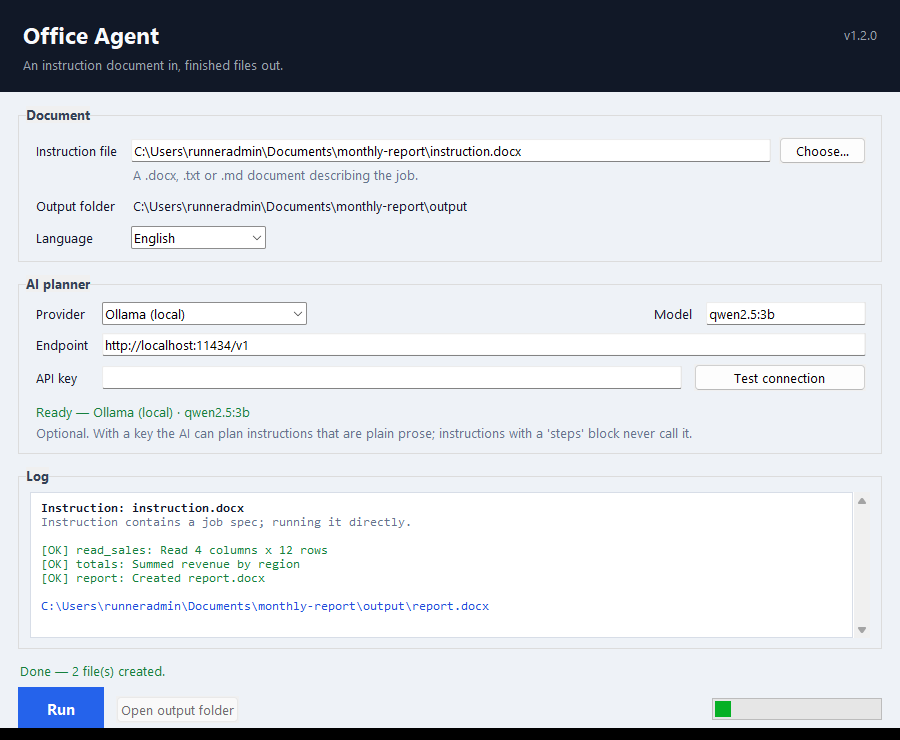
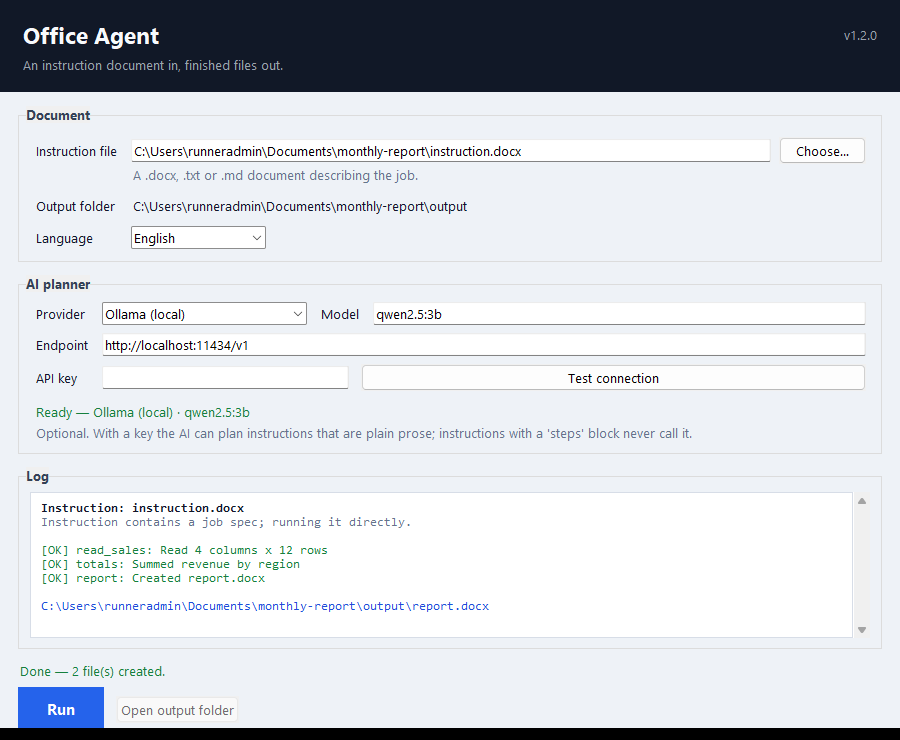
Keep the connection test button at its own width
The AI row gave the spare width to the button instead of the fields, so
the button now has its own column at the right edge.

diff --git a/gui.py b/gui.py
@@ -320,7 +320,7 @@ class OfficeAgentWindow:
             font=(self.family, 10),
         )
         self.key_entry.grid(
-            row=2, column=1, columnspan=2, sticky="ew",
+            row=2, column=1, columnspan=3, sticky="ew",
             padx=(12, 12), pady=(8, 0),
         )
         self.key_entry.bind("<FocusOut>", self._on_ai_edit)
@@ -330,7 +330,7 @@ class OfficeAgentWindow:
             command=self.test_connection,
             width=17,
         )
-        self.test_button.grid(row=2, column=3, sticky="ew", pady=(8, 0))
+        self.test_button.grid(row=2, column=4, sticky="e", pady=(8, 0))
 
         self.ai_status_label = ttk.Label(
             self.ai_card,
@@ -339,13 +339,13 @@ class OfficeAgentWindow:
             wraplength=760,
         )
         self.ai_status_label.grid(
-            row=3, column=0, columnspan=4, sticky="w", pady=(10, 0)
+            row=3, column=0, columnspan=5, sticky="w", pady=(10, 0)
         )
 
         self.ai_hint_label = ttk.Label(
             self.ai_card, style="Muted.TLabel", wraplength=760
         )
-        self.ai_hint_label.grid(row=4, column=0, columnspan=4, sticky="w")
+        self.ai_hint_label.grid(row=4, column=0, columnspan=5, sticky="w")
 
     def _build_log(self, parent: ttk.Frame) -> None:
         self.log_card = ttk.LabelFrame(
